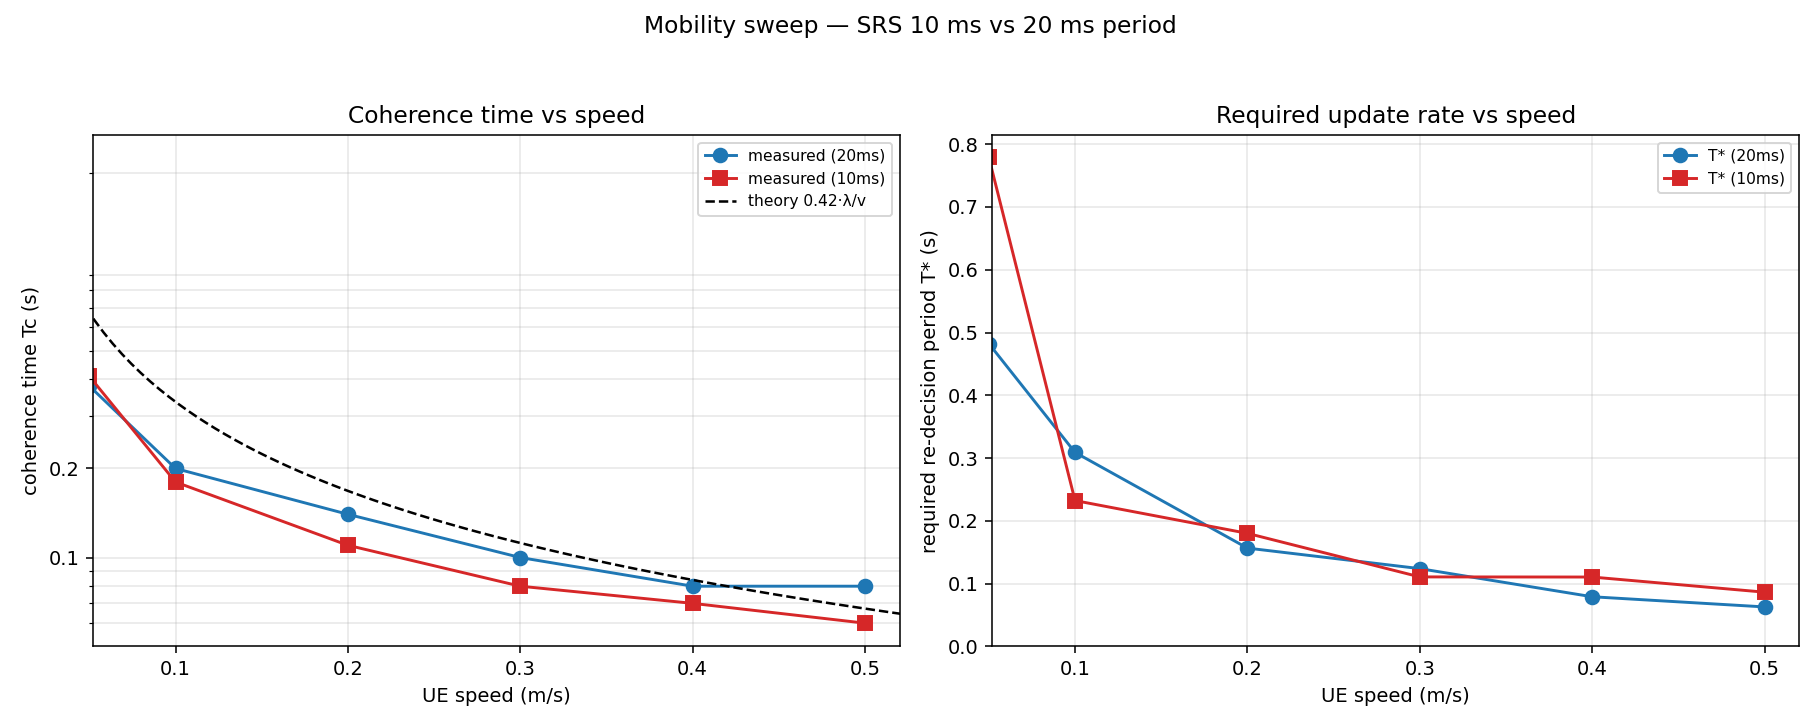
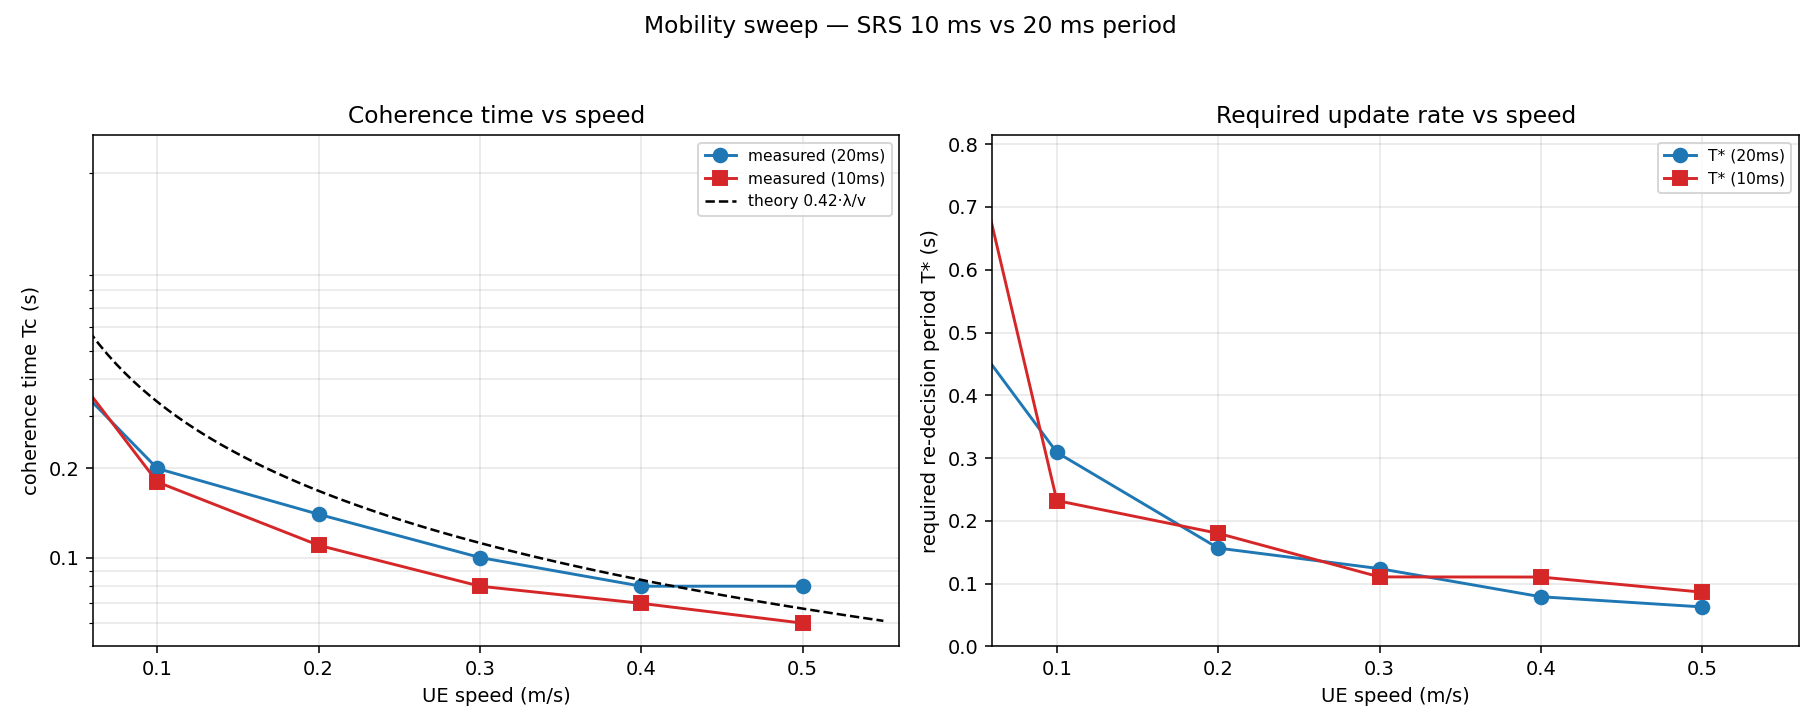
update on plot and code for mobility plots along with axes setting for better plot

diff --git a/tools/plot_mobility_sweep.py b/tools/plot_mobility_sweep.py
@@ -79,7 +79,7 @@ def main():
         ax[0].set_yticklabels([f"{t:g}" for t in yticks0])
         ax[0].yaxis.set_minor_formatter(matplotlib.ticker.NullFormatter())
 
-    ax[0].set_xlim(0.052, 0.52)
+    ax[0].set_xlim(0.06, 0.56)
     ax[0].grid(alpha=.3, which="both"); ax[0].legend(fontsize=8)
 
     # ---- T* vs speed ----
@@ -91,7 +91,7 @@ def main():
     ax[1].set_xlabel("UE speed (m/s)"); ax[1].set_ylabel("required re-decision period T* (s)")
     ax[1].set_title("Required update rate vs speed")
 
-    ax[1].set_xlim(0.052, 0.52)
+    ax[1].set_xlim(0.06, 0.56)
     ax[1].grid(alpha=.3); ax[1].legend(fontsize=8); ax[1].set_ylim(bottom=0)
 
     fig.suptitle("Mobility sweep — SRS 10 ms vs 20 ms period",fontsize=12)
